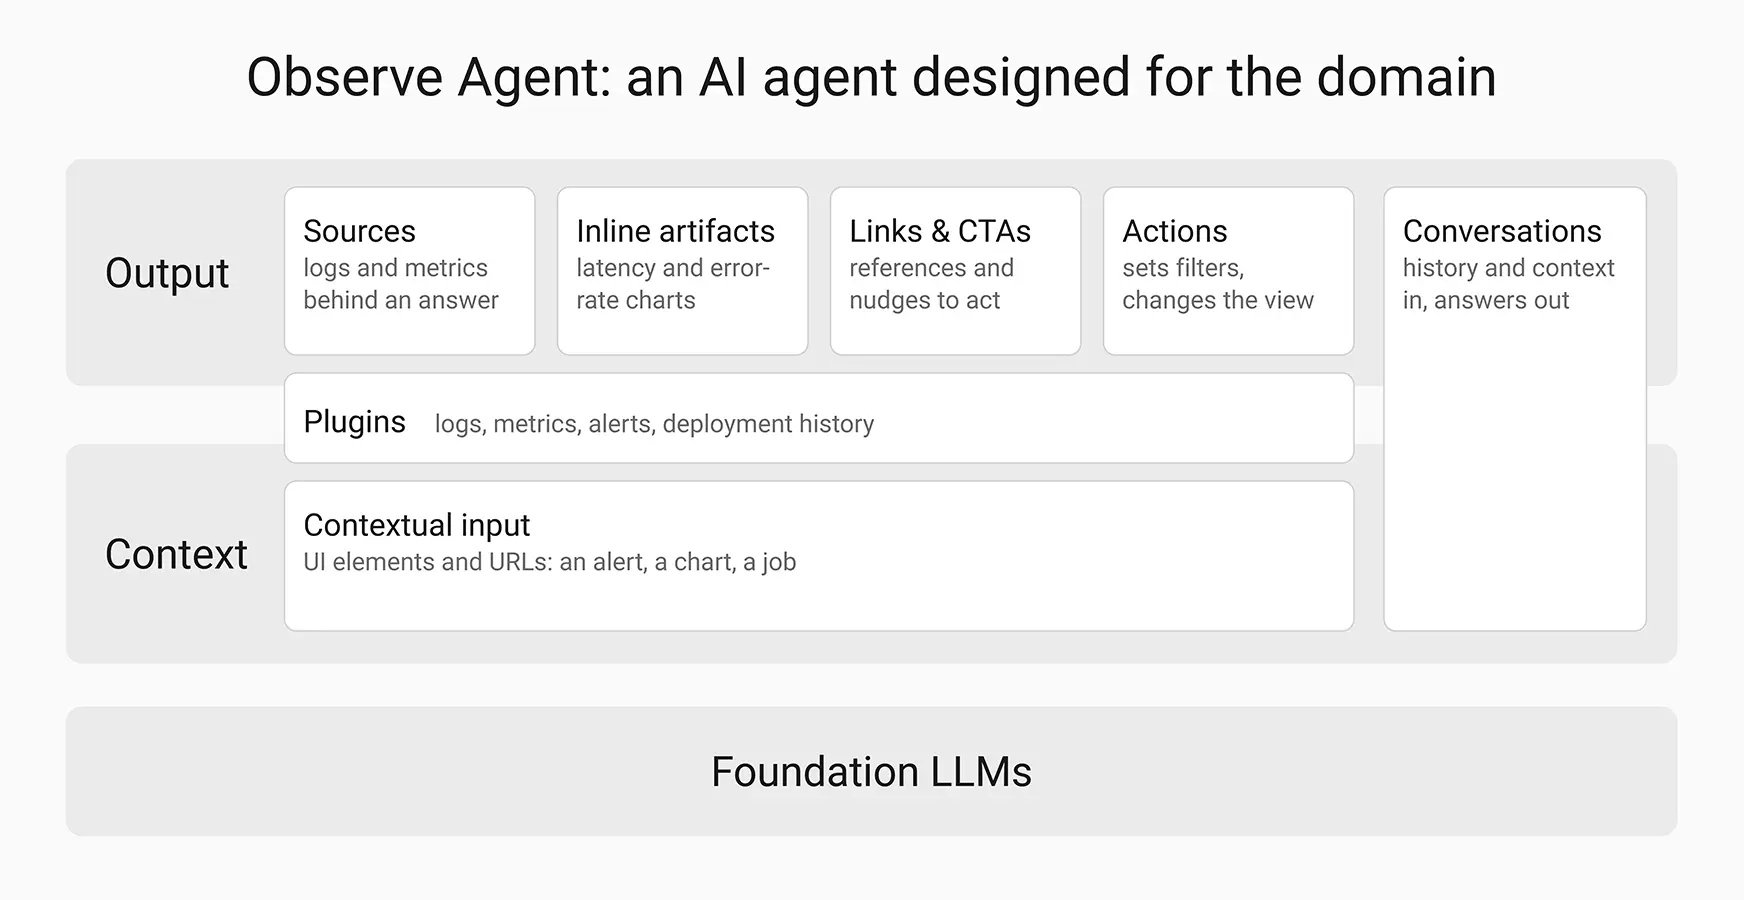
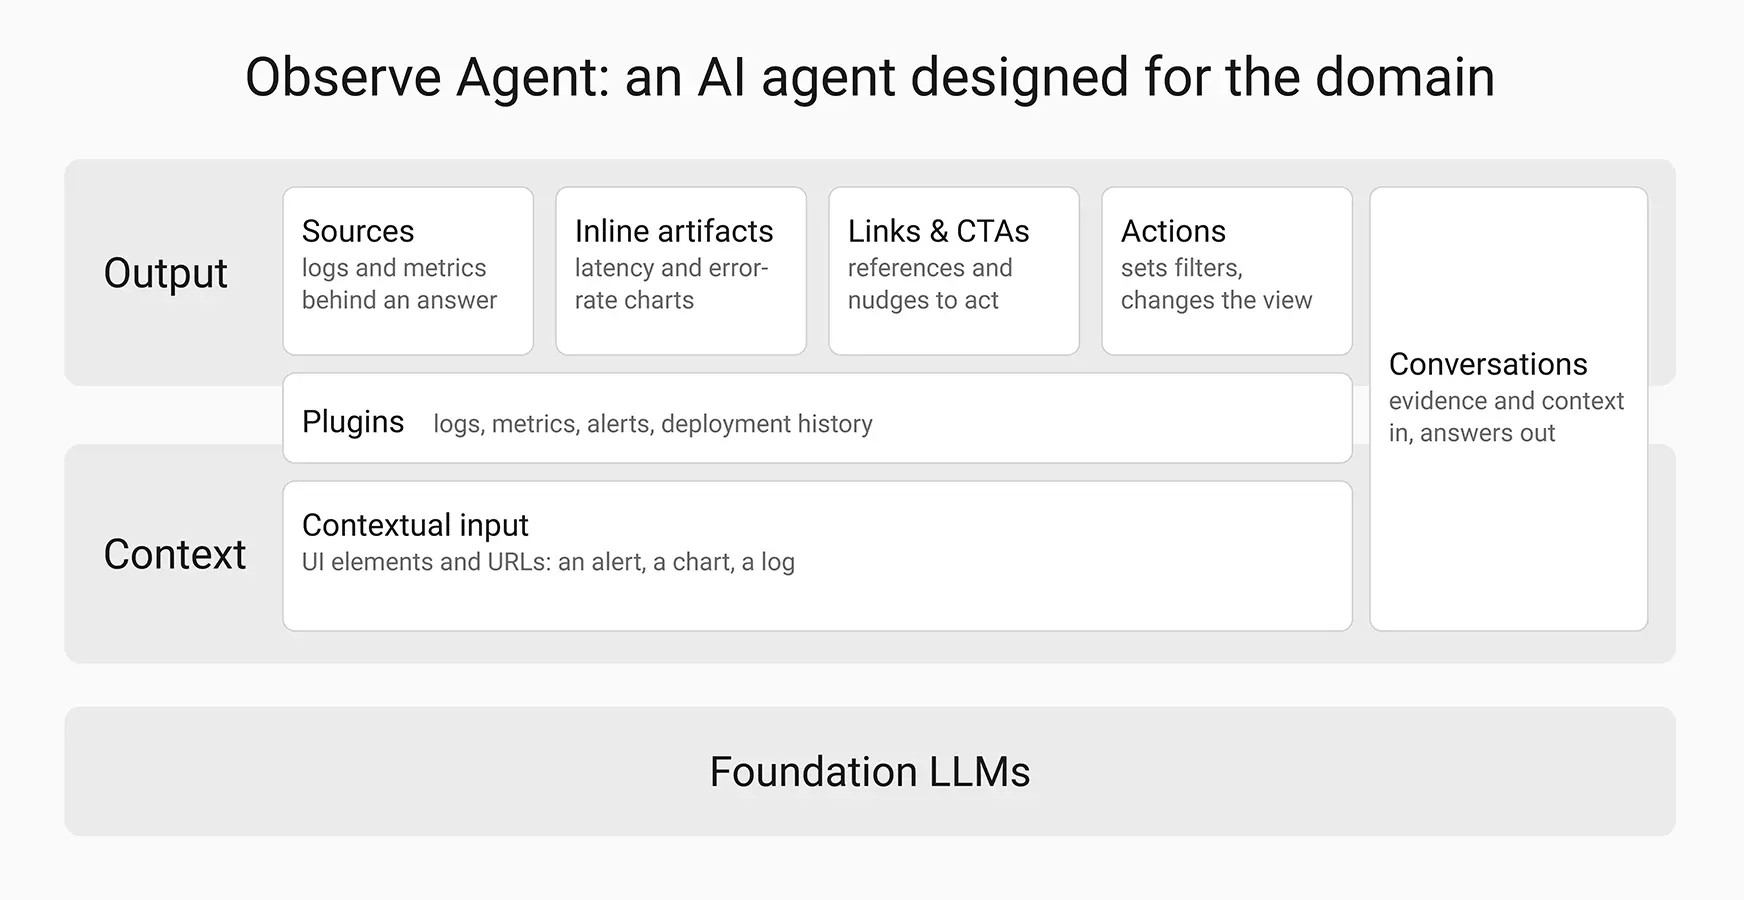
Refine Agentic AI Chat case study, third pass (#57)
Respond to outside feedback that the page was too wordy (while keeping
the storytelling) and that the primitives spec image was too small to read.

- Replace "Three Primitives" with "Four Components to Help Developers Move
  Fast": one intro paragraph plus four annotated spec images
  (conversations, plugins, context, inline artifacts), sharing one width
- Remove the old interaction-specs image
- Cut body copy from 744 to about 490 words; layers paragraph becomes a list
- Present-tense captions, "jobs to be done", widow cleanup at desktop
- Re-exported agent-layers diagram and user-needs (edge alpha fixed)
- Per-image Lightbox caps for user-needs, agent-layers, component specs

diff --git a/planning/backlog.md b/planning/backlog.md
@@ -42,6 +42,12 @@ is lower-priority or longer-horizon.
 
 ## Done
 
+- [x] Agentic AI Chat, third pass, done 2026-10-13 (branch `fix/refine-case-study-agentic-ai-chat-pass-3`). From Daniel Erwin's 2026-10-06 site feedback: "the text is a bit long… I actually like having a detailed story," and the Three Primitives image "is too small" to read.
+  - **Components:** "Three Primitives" became **"Four Components to Help Developers Move Fast"** (Conversations added, matching the layers diagram). One intro paragraph, then one annotated spec image per component: `component-{conversations,plugins,context,inline-artifacts}.webp`, 1744 wide, resized from Jim's 2700px `@2x` Figma exports in `production images/LinkedIn Agent/components/`. They share one canvas width so their UI renders at the same scale, and share a Lightbox cap of 1170. `agent-fullscreen` stays as the closing image showing the components together. The old `interaction-specs` image and asset are removed. Tried per-component subheads plus text first; Jim preferred letting the images carry it. The intro reopens on the original page's "help developers move fast" framing, with inline artifacts described as rendering in place instead of linking out.
+  - **Copy:** body cut from 744 to about 490 words to make it easier to scan, keeping the storytelling. The layers paragraph became a 4-item list, and a line-by-line pass with Jim cleared desktop widows. Captions are in present tense; "need statements" became "jobs to be done"; the homepage blurb names the four components. All 11 captions fit on one line inline and in the Lightbox at desktop.
+  - **Images Jim re-exported:** the agent-layers diagram ("a job" → "a log"; Conversations box now "evidence and context in, answers out") and `user-needs` (edge alpha fixed, still 1164 wide). Lightbox caps: user-needs 700, agent-layers 1000.
+  - **Left as is, on purpose:** lorem ipsum in the Plugins menu (a spec image, not content design); "Sources" in the diagram vs. "knowledge sources" in the text. Optional later: the "Plugin Button hover" / "Plugin Tag added" labels to full title case, and re-exports for Lightbox sharpness (several images are under 2x at their Lightbox cap).
+
 - [x] Visual design refinement from a colleague's review (feedback received 2026-10-07), homepage only, done 2026-10-08 (branch `fix/visual-design-refinement-home`). Their comments, close to verbatim, each needing a decision before any change:
   - **Animations read as clutter together.** "The two animations seem arbitrary and decorative by themselves. But together, the spinning gear and two PacMan ghosts really feel like a jumble of distracting nonsense." (`HandGearMark.jsx`, `PacmanScene.jsx`.) Options range from keeping one, to tying both to a clear meaning, to toning down motion. Coordinate with the hand/gear GIF→CSS item and the "Optimize mobile experience" item (PacMan scroll transitions).
   - **Big gap under the intro.** "There's a weirdly large gap under the intro text, after 'Explore my work...' Oh after scrolling, I almost get it. The below stuff should be hidden/invisible, not just far away." The gap only makes sense once the next section reveals on scroll; the reveal should hide content until it arrives, not just park it far below. (`Intro.jsx` and the homepage section spacing.)

diff --git a/planning/refine-case-studies.md b/planning/refine-case-studies.md
@@ -347,6 +347,33 @@ now exists. Open image flags: homepage carousel `agentic-ai-chat-2` shows lorem 
 descriptions, and the chat date in `agent-in-context` and `agentic-ai-chat-3` (April 3)
 doesn't match the log dates (April 6).
 
+**Third pass (2026-10-10), branch `fix/refine-case-study-agentic-ai-chat-pass-3`.** Driven by
+outside feedback (`feedback/website feedback.eml`): too wordy, but keep the storytelling;
+the primitives spec image was too small to read. Three Primitives → **Four Components to Help
+Developers Move Fast** (Conversations added, matching the layers diagram; first titled
+"Four Components: Conversations, Plugins, Context, and Inline Artifacts", shortened 2026-10-13
+because it wrapped). Tried an `h3` subhead plus a sentence per component first; Jim preferred
+one intro paragraph (keeping the inline-artifact tradeoff) and letting four per-component
+images carry it, each with its component name baked in as a title. Layers paragraph →
+intro sentence + 4-item list. Cuts dropped clauses rather than re-voicing. Images come from
+`production images/LinkedIn Agent/components/`, one PNG per component, converted to
+1744px WebP. `Conversations.png` came in at 2700×1178, RGBA but fully opaque (alpha 255
+throughout), and was downscaled to 1744×761. All four share
+one canvas width, set by the widest spec (Context), so they render at the same scale and
+their UI text matches across images (Jim's call, 2026-10-10; he finds it legible). To make
+the set more legible later, tighten the Context layout and narrow the shared canvas, rather
+than cropping each image on its own. **Workflow (settled 2026-10-12):** Jim exports at a plain 2x
+from his own frame (keeping his composition) and I resize to 1744 wide; a Figma `1744w`
+export produced a fractional height (760.9px) and a semi-transparent bottom row. All four
+images are in (1744×761, 618, 652, 700); `interaction-specs` is retired. Settled: Context
+typo fixed; Plugins lorem ipsum stays (spec image, not content design); `agent-fullscreen`
+stays as the closing "components in context" image, with the Inline Artifacts caption naming
+the pieces and the screenshot caption showing them together. **Line edits (2026-10-13):** body at about 490 words
+(from 744). Components intro reopens on the original page's "To help developers move
+fast," and describes inline artifacts as rendering in place instead of linking out (Jim
+found "tradeoff" confusing). "Need statements" → "jobs to be done." Lightbox caps:
+user-needs 700, agent-layers 1000, all four component specs 1170 (kept equal).
+
 ### Genomic Data Platform — done (2026-09-14)
 
 Source review done first, per principle 10: myportfolio original checked (its text is a
